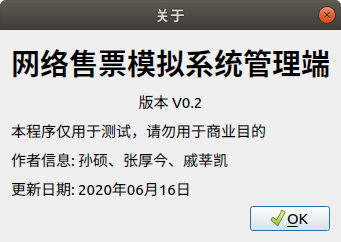
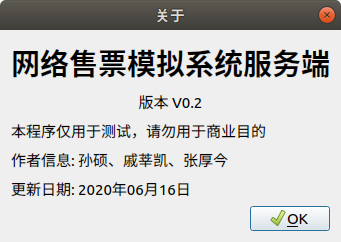
Update Name

Changed region(s): [[0.7038, 0.2025, 0.8798, 0.3182], [0.5279, 0.6364, 0.6745, 0.6942], [0.3519, 0.6364, 0.4985, 0.6942]]

diff --git a/TicketingSystem_Client/mainwindow.cpp b/TicketingSystem_Client/mainwindow.cpp
@@ -283,7 +283,7 @@ void MainWindow::on_action_about_triggered(){
     form.addRow(new QLabel("<h1>网络售票模拟系统客户端</h1>"));
     form.addRow(new QLabel("<center>版本 V0.2</center>"));
     form.addRow(new QLabel("本程序仅用于测试，请勿用于商业目的"));
-    form.addRow(new QLabel("作者信息: 孙硕、张厚今、戚莘凯"));
+    form.addRow(new QLabel("作者信息: 孙硕、戚莘凯、张厚今"));
     form.addRow(new QLabel("更新日期: 2020年06月16日"));
     QDialogButtonBox buttonBox(QDialogButtonBox::Ok, &dialog);
     form.addRow(&buttonBox);

diff --git a/TicketingSystem_Sell/mainwindow.cpp b/TicketingSystem_Sell/mainwindow.cpp
@@ -300,7 +300,7 @@ void MainWindow::on_action_about_triggered(){
     form.addRow(new QLabel("<h1>网络售票模拟系统管理端</h1>"));
     form.addRow(new QLabel("<center>版本 V0.2</center>"));
     form.addRow(new QLabel("本程序仅用于测试，请勿用于商业目的"));
-    form.addRow(new QLabel("作者信息: 孙硕、张厚今、戚莘凯"));
+    form.addRow(new QLabel("作者信息: 孙硕、戚莘凯、张厚今"));
     form.addRow(new QLabel("更新日期: 2020年06月16日"));
     QDialogButtonBox buttonBox(QDialogButtonBox::Ok, &dialog);
     form.addRow(&buttonBox);

diff --git a/TicketingSystem_Server/mainwindow.cpp b/TicketingSystem_Server/mainwindow.cpp
@@ -266,7 +266,7 @@ void MainWindow::on_action_about_triggered(){
     form.addRow(new QLabel("<h1>网络售票模拟系统服务端</h1>"));
     form.addRow(new QLabel("<center>版本 V0.2</center>"));
     form.addRow(new QLabel("本程序仅用于测试，请勿用于商业目的"));
-    form.addRow(new QLabel("作者信息: 孙硕、张厚今、戚莘凯"));
+    form.addRow(new QLabel("作者信息: 孙硕、戚莘凯、张厚今"));
     form.addRow(new QLabel("更新日期: 2020年06月16日"));
     QDialogButtonBox buttonBox(QDialogButtonBox::Ok, &dialog);
     form.addRow(&buttonBox);
